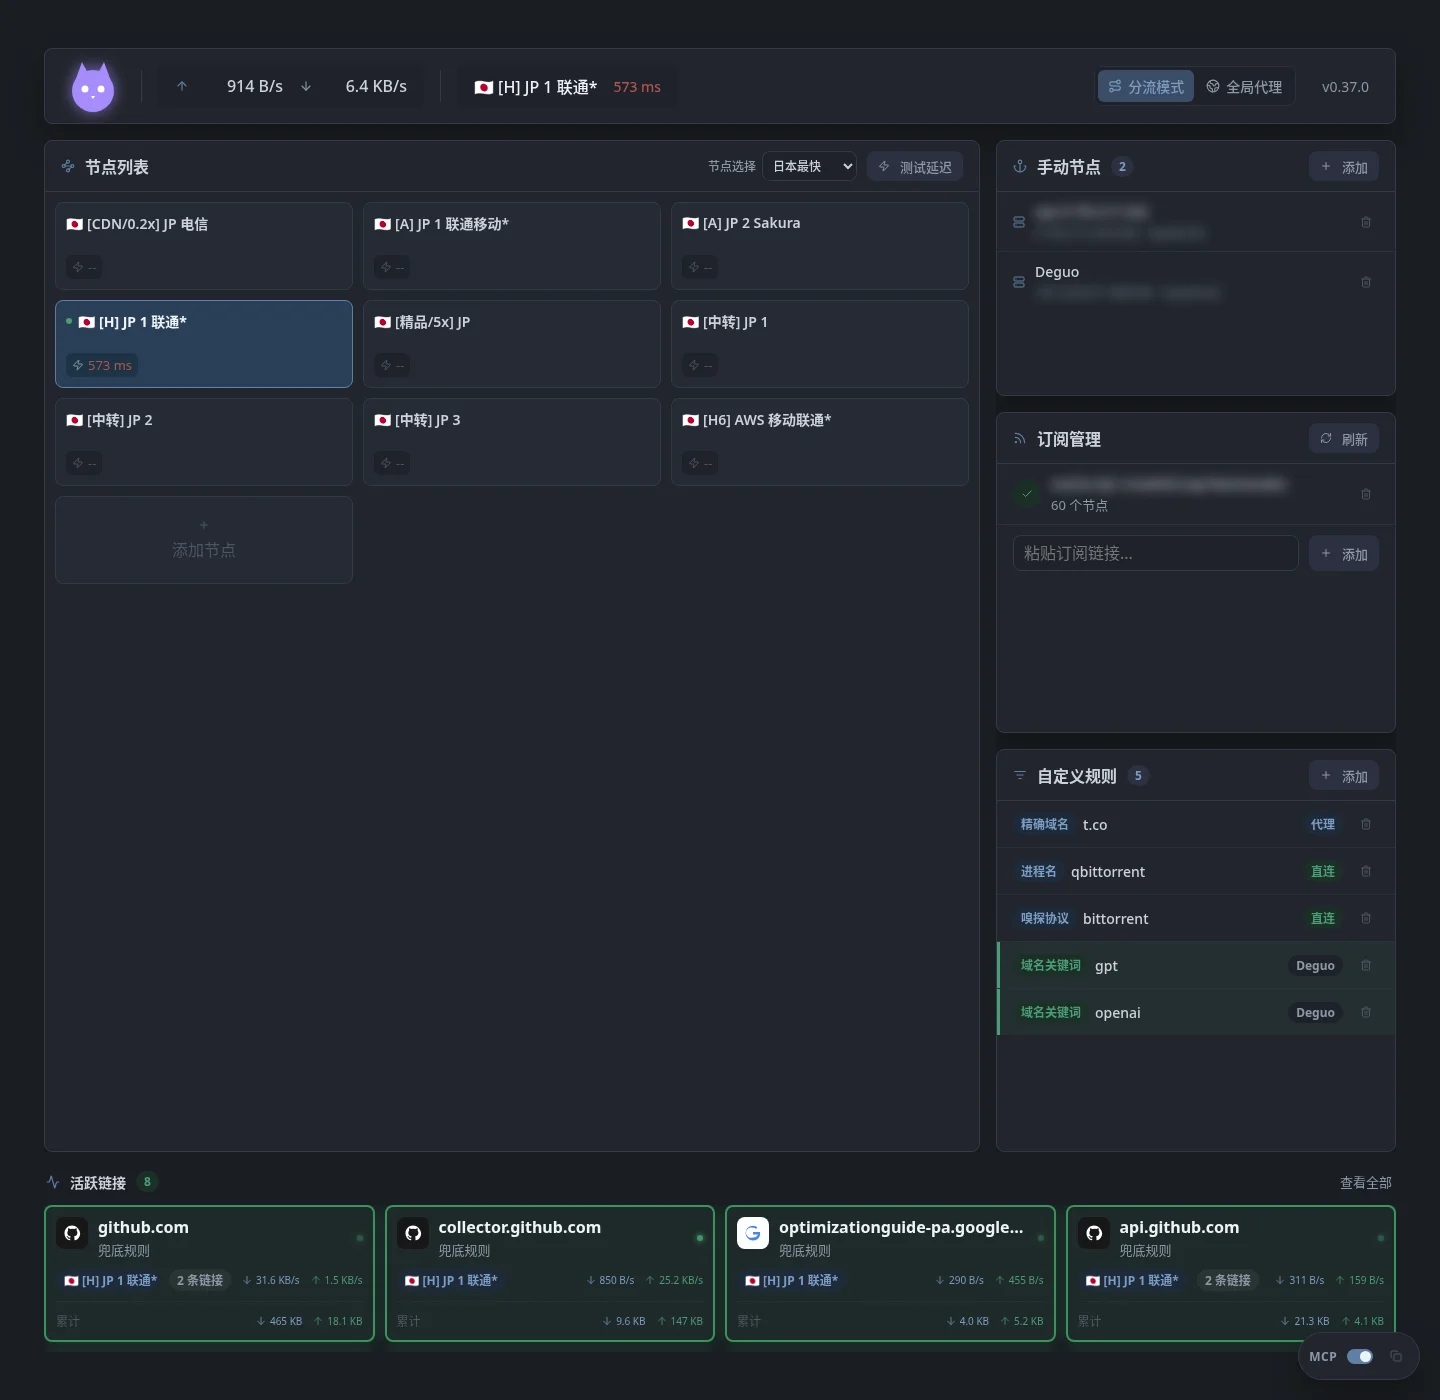
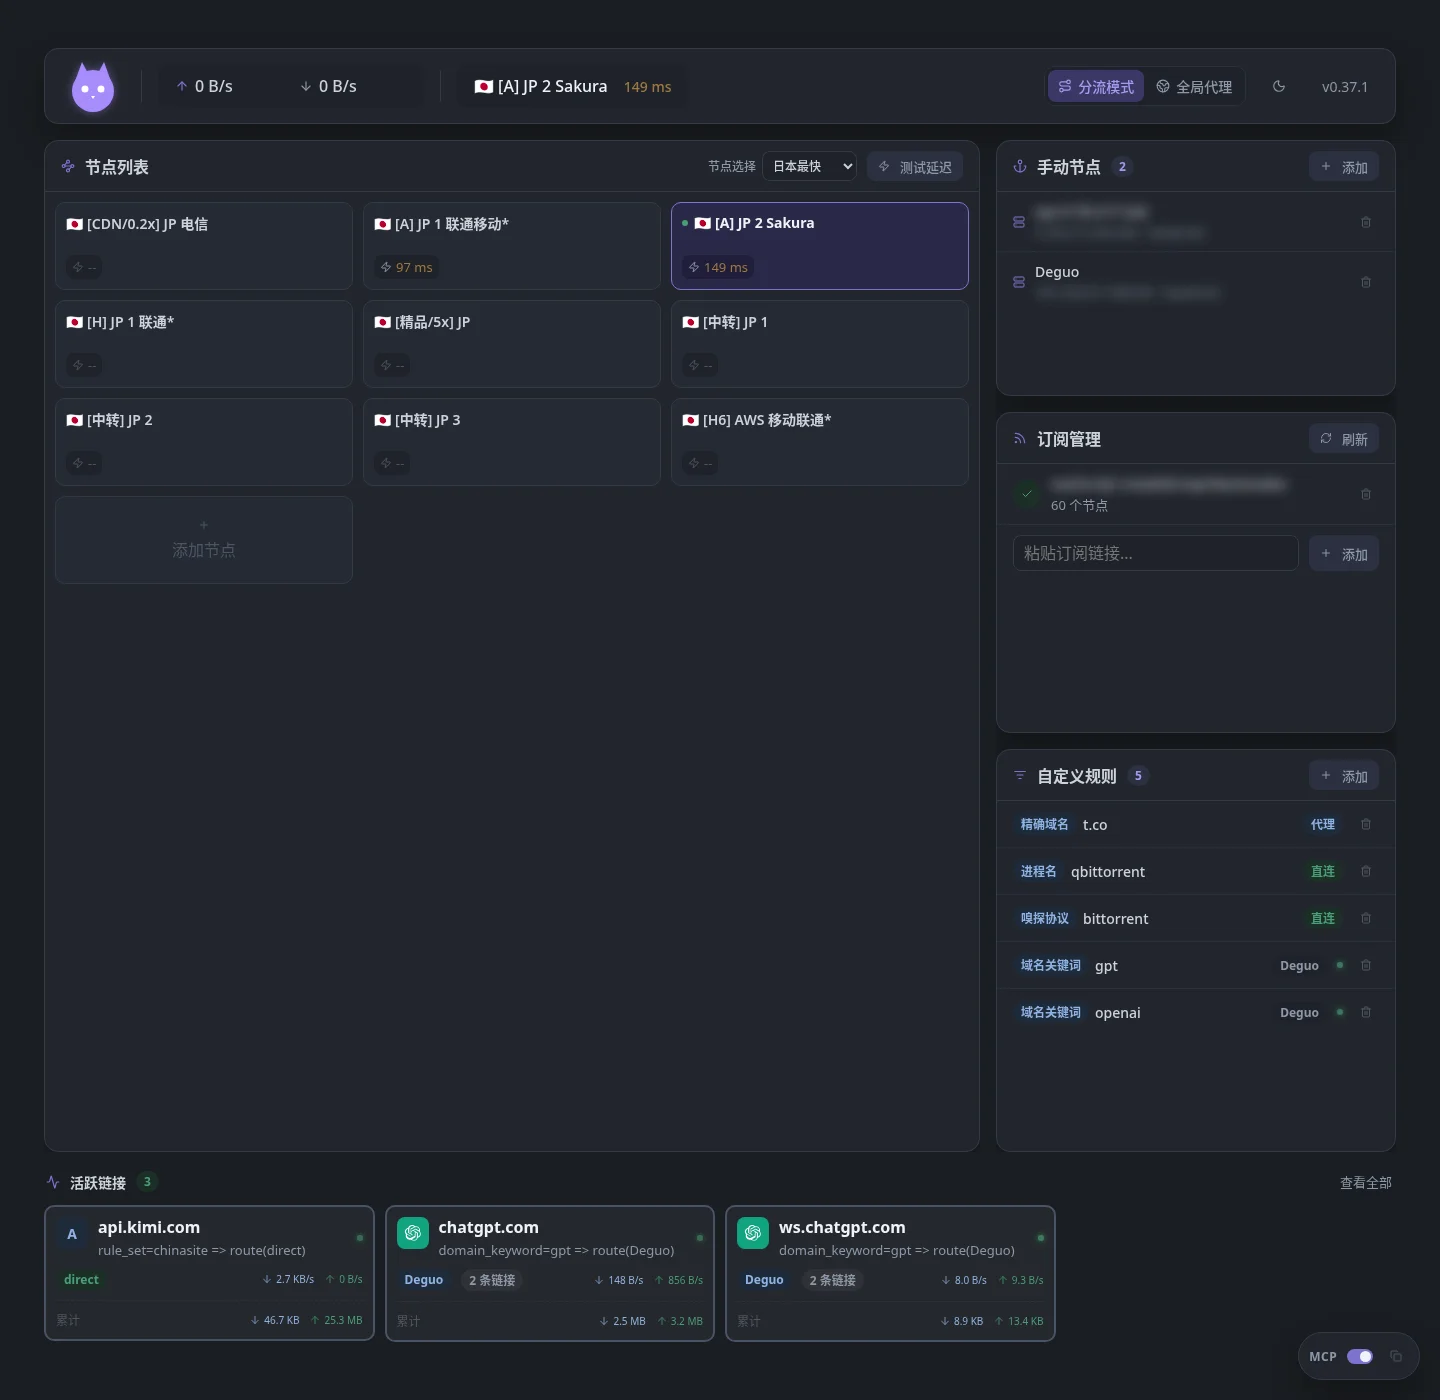
content: v0.38.0——面板新设计系统实拍、深色/浅色双主题入特性
- panel.webp 重拍：token 化新设计（紫色品牌、角色圆角、主题开关）
- 版本号 v0.37.0 → v0.38.0
- 特性/图注补深色/浅色双主题
- docs/screenshots.md 视口公式同步融合顶栏几何

diff --git a/docs/screenshots.md b/docs/screenshots.md
@@ -20,7 +20,7 @@ agent-browser set viewport 1440 1400
 
 ```js
 // agent-browser eval,返回右列内容高度,按需调整视口
-// 所需视口高度 ≈ 60(顶栏) + 48(页面上下 padding) + 102(状态卡) + 右列内容高度 + 16 + 240(活跃链接区)
+// 所需视口高度 ≈ 96(页面上下留白) + 76(融合顶栏) + 16 + 右列内容高度 + 16 + 184(活跃链接条带)
 document.querySelector('.right-column').scrollHeight
 ```
 
